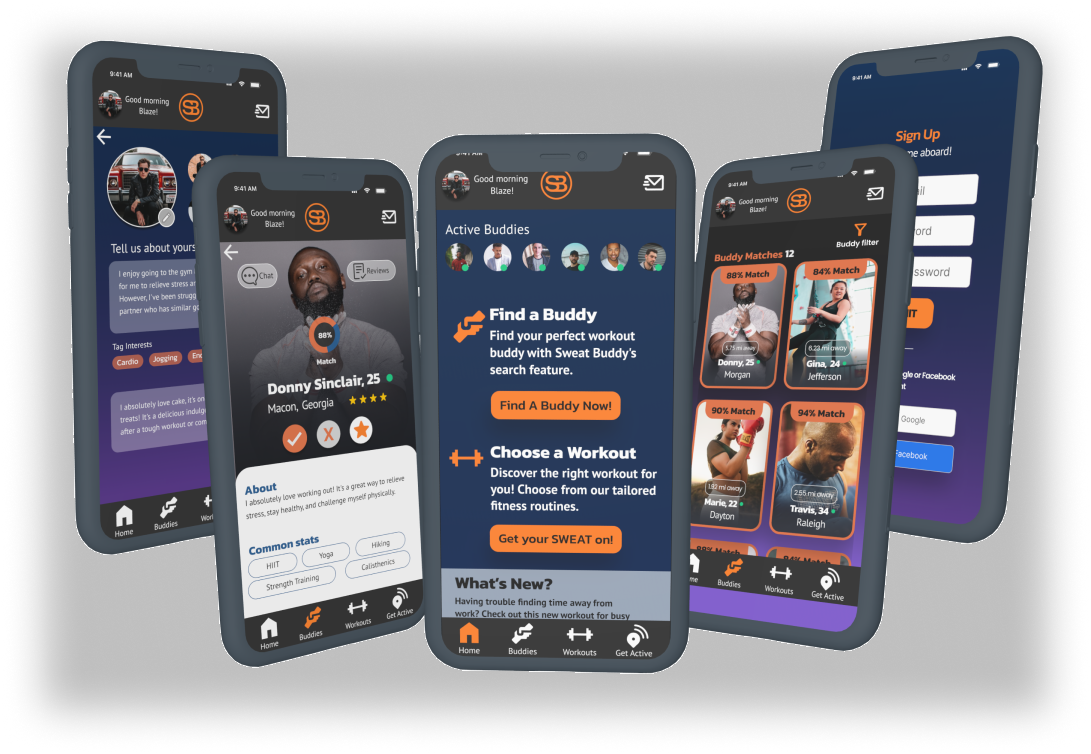
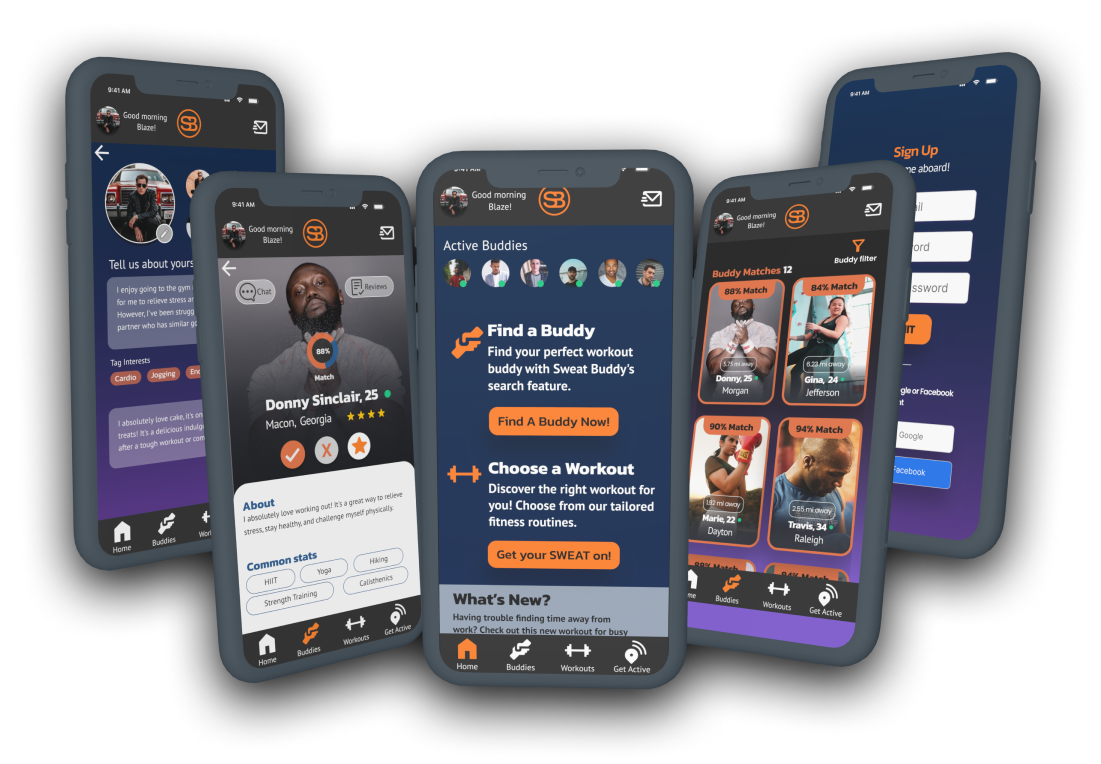
UPCHUCK POOOOSH

diff --git a/s-buddy.html b/s-buddy.html
@@ -140,7 +140,12 @@
          <div class="jumbotron" style="margin: 0 0 0 0;">
             <section class="myWork-dc" data-aos="fade-up">
                <div class="case-study-myWorkPic1">
-                  <img class="dc-problem" src="assets/images/SB-TN2.png">
+                  <!--<img class="dc-problem" src="assets/images/SB-TN2.png">-->
+                  <img src="/assets/images/SB-HIDEF.png" style="
+                  
+                  margin: auto;
+              ">
+
                   <img class="CS-logo-dc SB-logo-dc" src="assets/images/SB-LOGO.png">
                   <h2 class="case-study-header2">Project Description</h2>
                   <p> Sweat Buddy is a fitness app that helps users find compatible workout partners and provides a fun and challenging environment to motivate each other towards their fitness goals. With a focus on social connection and customizable preferences, Sweat Buddy makes working out a rewarding and enjoyable experience.
